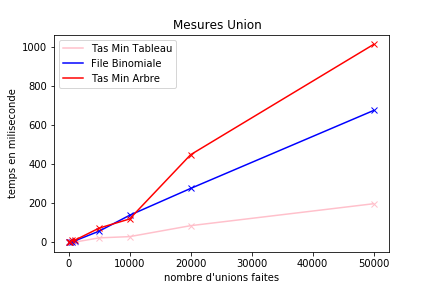
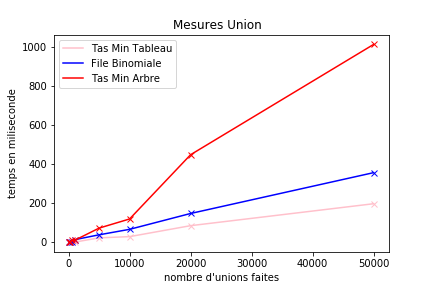
ptite amelioration de file bino

diff --git a/MesureFileBinoCode/FileBinomiale.py b/MesureFileBinoCode/FileBinomiale.py
@@ -25,7 +25,7 @@ class TournoisBino:
     def file(self):
         """ transforme un tournois en file binomial qui a pour unique tournois ce tournois"""
         res = FileBinomial()
-        res.AjoutTournois(self)
+        res.tournois.append(self)
         return res
     
     def __repr__(self):
@@ -49,24 +49,29 @@ class FileBinomial:
         """ renvoie le tournois de degre minimum"""
         if(self.estVide()):
             return None
-        self.tournois = sorted(self.tournois,key = lambda tournoi : tournoi.degre)
-        return self.tournois[0]
+        return self.tournois[-1]
     
     def reste(self):
         """renvoie la file privé de son tournois de degree minimum"""
         if(self.estVide()):
             return None
-        self.tournois = sorted(self.tournois,key = lambda tournoi : tournoi.degre)
-        self.tournois.pop(0)
+        self.tournois.pop()
         return self
     
     def SuppMin(self):
         """ renvoie le tournois avec la racine la plus petite et le supprime de la file"""
         if self.tournois == []:
             return None
-        
         tournoisP = self.tournois[0]
-        self.tournois.pop(0)
+        minimum = tournoisP.racine
+        ind = 0
+        for i in range(1,len(self.tournois)):
+            if(self.tournois[i].racine.inf(minimum)):
+                minimum = self.tournois[i].racine
+                tournoisP = self.tournois[i]
+                ind = i
+        
+        self.tournois.pop(ind)
         h = FileBinomial()
         for t in tournoisP.enfants:
             h.AjoutTournois(t)
@@ -83,7 +88,7 @@ class FileBinomial:
             self.tournois.append(t)
         else:
             f = FileBinomial()
-            f.AjoutTournois(t)
+            f.tournois.append(t)
             res = UnionFile(self,f)
             self.tournois = res.tournois
             
@@ -126,7 +131,7 @@ def ajoutMin(F,tournoi):
     """ ajoute un tournois de degre plus petit que le tournois de degre plus petit d'une file dans une file"""
     if(F.minDegre().degre<tournoi.degre):
         return None
-    F.tournois.insert(0,tournoi)
+    F.tournois.append(tournoi)
     return F
         
 def Union(F1,F2,t):

diff --git a/FileBinomiale.py b/FileBinomiale.py
@@ -25,7 +25,7 @@ class TournoisBino:
     def file(self):
         """ transforme un tournois en file binomial qui a pour unique tournois ce tournois"""
         res = FileBinomial()
-        res.AjoutTournois(self)
+        res.tournois.append(self)
         return res
     
     def __repr__(self):
@@ -49,14 +49,13 @@ class FileBinomial:
         """ renvoie le tournois de degre minimum"""
         if(self.estVide()):
             return None
-        return self.tournois[0]
+        return self.tournois[-1]
     
     def reste(self):
         """renvoie la file privé de son tournois de degree minimum"""
         if(self.estVide()):
             return None
-        
-        self.tournois.pop(0)
+        self.tournois.pop()
         return self
     
     def SuppMin(self):
@@ -89,10 +88,9 @@ class FileBinomial:
             self.tournois.append(t)
         else:
             f = FileBinomial()
-            f.AjoutTournois(t)
+            f.tournois.append(t)
             res = UnionFile(self,f)
             self.tournois = res.tournois
-            self.tournois = sorted(self.tournois,key = lambda tournoi : tournoi.degre)
             
             
     def ConsIter(self,tournois):
@@ -133,7 +131,7 @@ def ajoutMin(F,tournoi):
     """ ajoute un tournois de degre plus petit que le tournois de degre plus petit d'une file dans une file"""
     if(F.minDegre().degre<tournoi.degre):
         return None
-    F.tournois.insert(0,tournoi)
+    F.tournois.append(tournoi)
     return F
         
 def Union(F1,F2,t):
@@ -282,8 +280,7 @@ def main():
     print("cette file a pour tournois : ")
     for c in F3.tournois:
         print(c)
-    
     print("======================================")
-    
+    print(F3.minDegre())
 if __name__ == "__main__":
     main()

diff --git a/EtudeExperimental/FileBinomiale.py b/EtudeExperimental/FileBinomiale.py
@@ -25,7 +25,7 @@ class TournoisBino:
     def file(self):
         """ transforme un tournois en file binomial qui a pour unique tournois ce tournois"""
         res = FileBinomial()
-        res.AjoutTournois(self)
+        res.tournois.append(self)
         return res
     
     def __repr__(self):
@@ -49,14 +49,13 @@ class FileBinomial:
         """ renvoie le tournois de degre minimum"""
         if(self.estVide()):
             return None
-        return self.tournois[0]
+        return self.tournois[-1]
     
     def reste(self):
         """renvoie la file privé de son tournois de degree minimum"""
         if(self.estVide()):
             return None
-        
-        self.tournois.pop(0)
+        self.tournois.pop()
         return self
     
     def SuppMin(self):
@@ -89,10 +88,9 @@ class FileBinomial:
             self.tournois.append(t)
         else:
             f = FileBinomial()
-            f.AjoutTournois(t)
+            f.tournois.append(t)
             res = UnionFile(self,f)
             self.tournois = res.tournois
-            self.tournois = sorted(self.tournois,key = lambda tournoi : tournoi.degre)
             
             
     def ConsIter(self,tournois):
@@ -133,7 +131,7 @@ def ajoutMin(F,tournoi):
     """ ajoute un tournois de degre plus petit que le tournois de degre plus petit d'une file dans une file"""
     if(F.minDegre().degre<tournoi.degre):
         return None
-    F.tournois.insert(0,tournoi)
+    F.tournois.append(tournoi)
     return F
         
 def Union(F1,F2,t):

diff --git a/Mesures/plotcourbes.py b/Mesures/plotcourbes.py
@@ -16,8 +16,8 @@ plt.show()
 
 plt.plot([100, 200, 500, 1000,5000,10000,20000,50000], [0.0, 0.0, 0.0, 0.0,21.87,28.13,84.34,196.89],label="Tas Min Tableau",color="pink")
 plt.plot([100, 200, 500, 1000,5000,10000,20000,50000], [0.0, 0.0, 0.0, 0.0,21.87,28.13,84.34,196.89],'x',color="pink")
-plt.plot([100, 200, 500, 1000,5000,10000,20000,50000], [0.0, 3.12, 3.12,6.25 ,56.25 ,137.52,275.25,675.08],label= "File Binomiale",color="blue")
-plt.plot([100, 200, 500, 1000,5000,10000,20000,50000], [0.0, 3.12, 3.12,6.25 ,56.25 ,137.52,275.25,675.08],'x',color="b")
+plt.plot([100, 200, 500, 1000,5000,10000,20000,50000], [0.0, 0.0, 3.12,12.50 ,37.50 ,65.61,146.90,356.28],label= "File Binomiale",color="blue")
+plt.plot([100, 200, 500, 1000,5000,10000,20000,50000], [0.0, 0.0, 3.12,12.50 ,37.50 ,65.61,146.90,356.28],'x',color="b")
 plt.plot([100, 200, 500, 1000,5000,10000,20000,50000], [0.0, 0.0, 9.37, 9.37 ,71.89 ,118.75 ,448.30 ,1013.89],label = "Tas Min Arbre",color="red")
 plt.plot([100, 200, 500, 1000,5000,10000,20000,50000], [0.0, 0.0, 9.37, 9.37 ,71.89 ,118.75 ,448.30 ,1013.89],'x',color="red")
 plt.ylabel('temps en miliseconde')

diff --git a/MesureFileBinoCode/MesureFileBinoUnion.py b/MesureFileBinoCode/MesureFileBinoUnion.py
@@ -5,7 +5,6 @@ import os
 import csv
  
 def mesureTemps(a,b):
-    c = FileBinomiale.FileBinomial()
     start = time.time()
     c = FileBinomiale.UnionFile(a,b)
     end = time.time()
